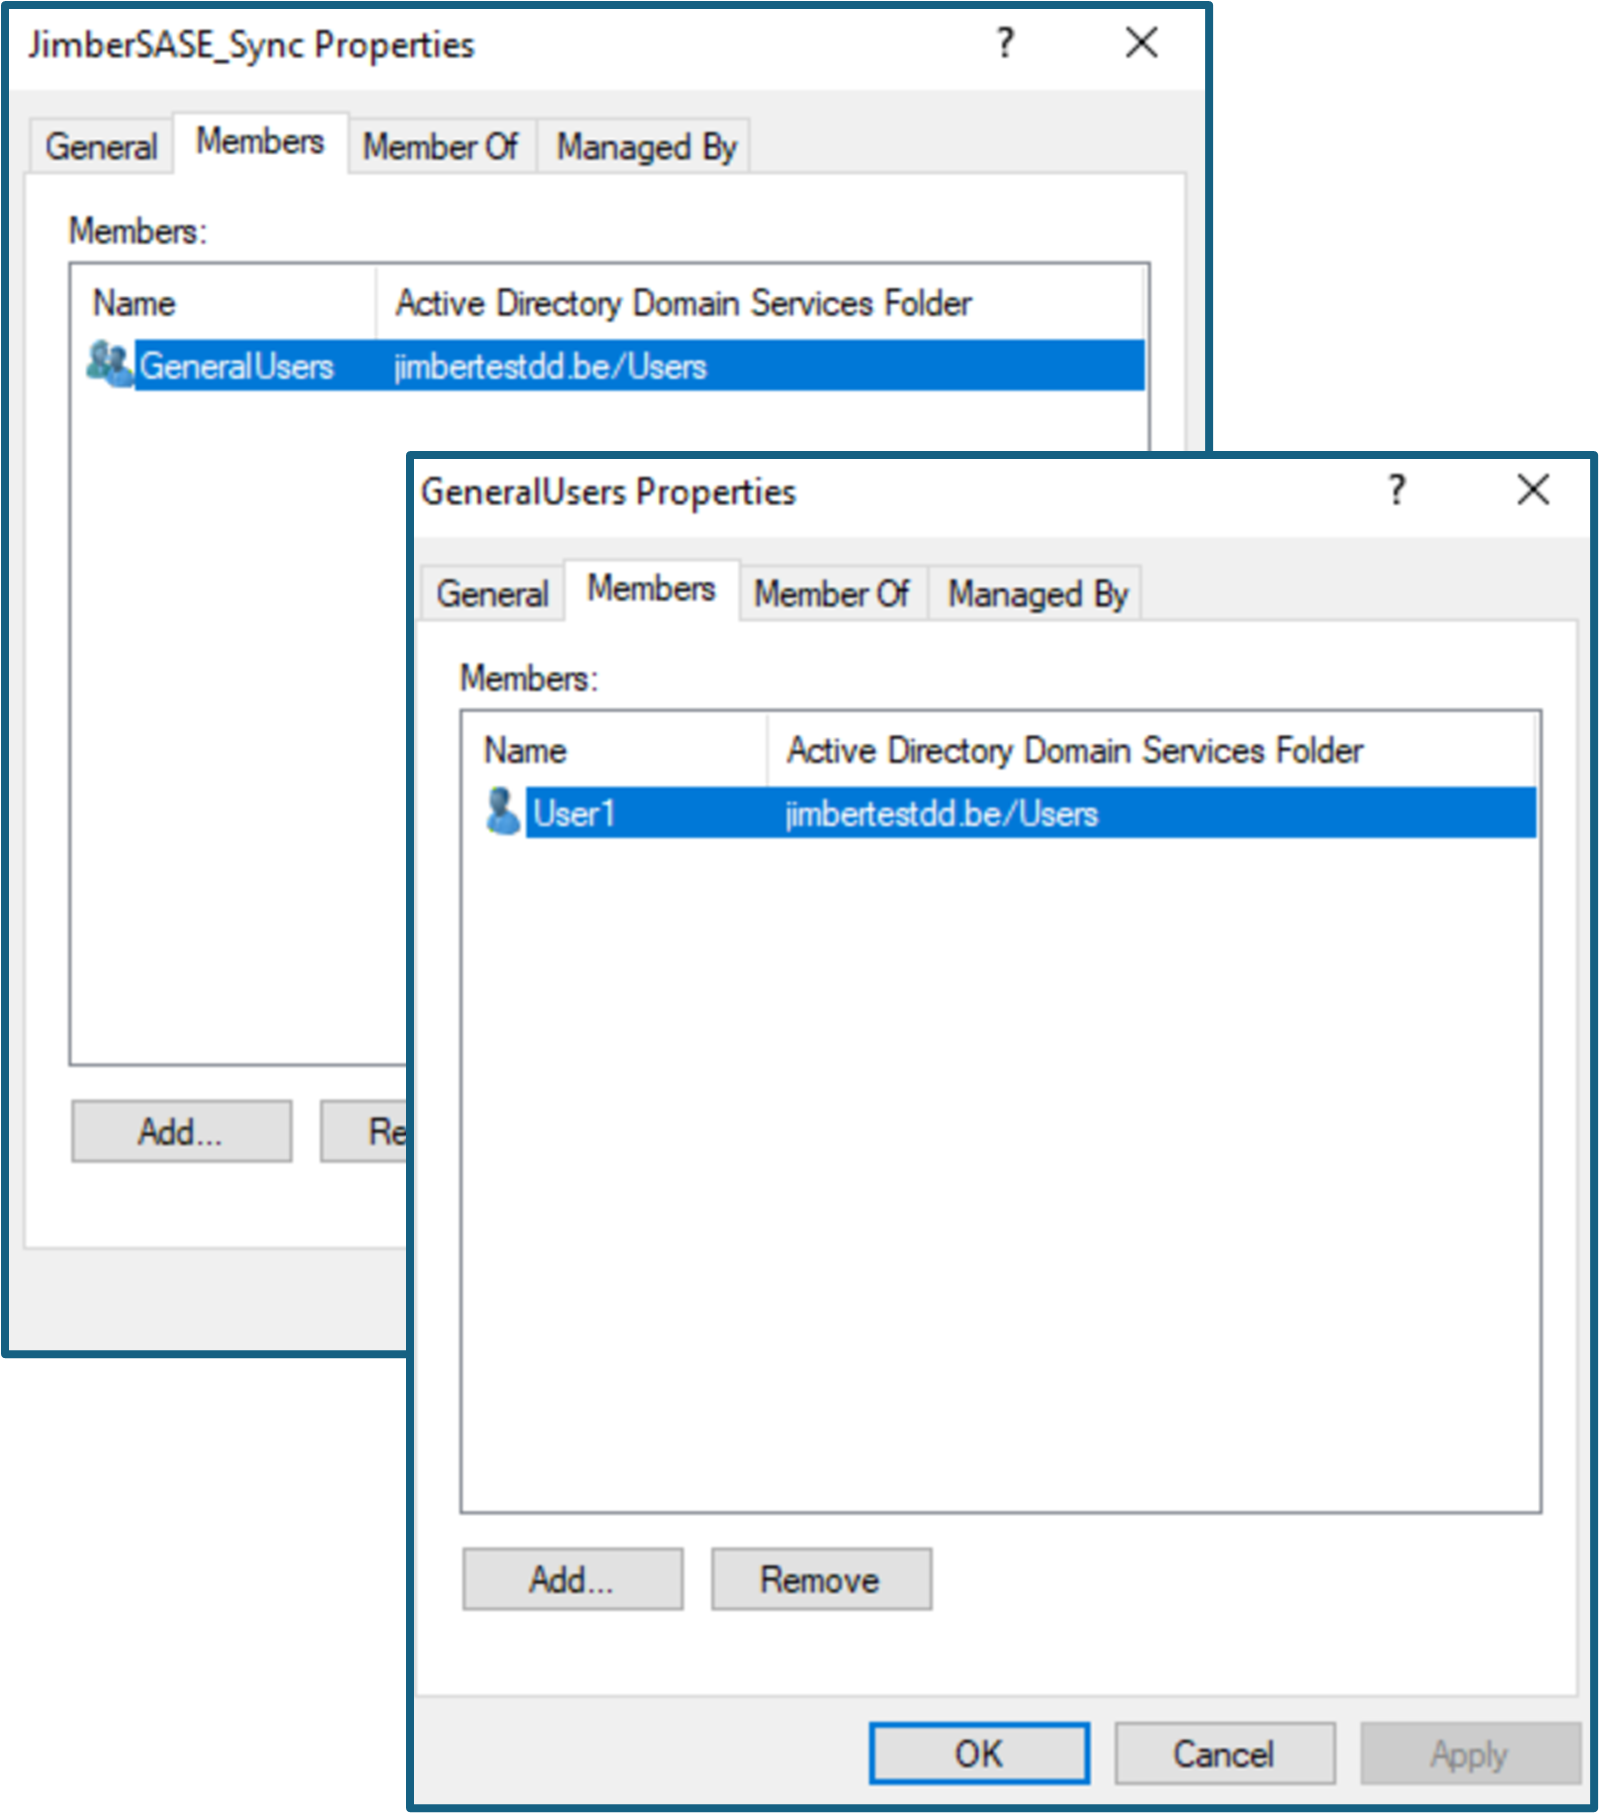
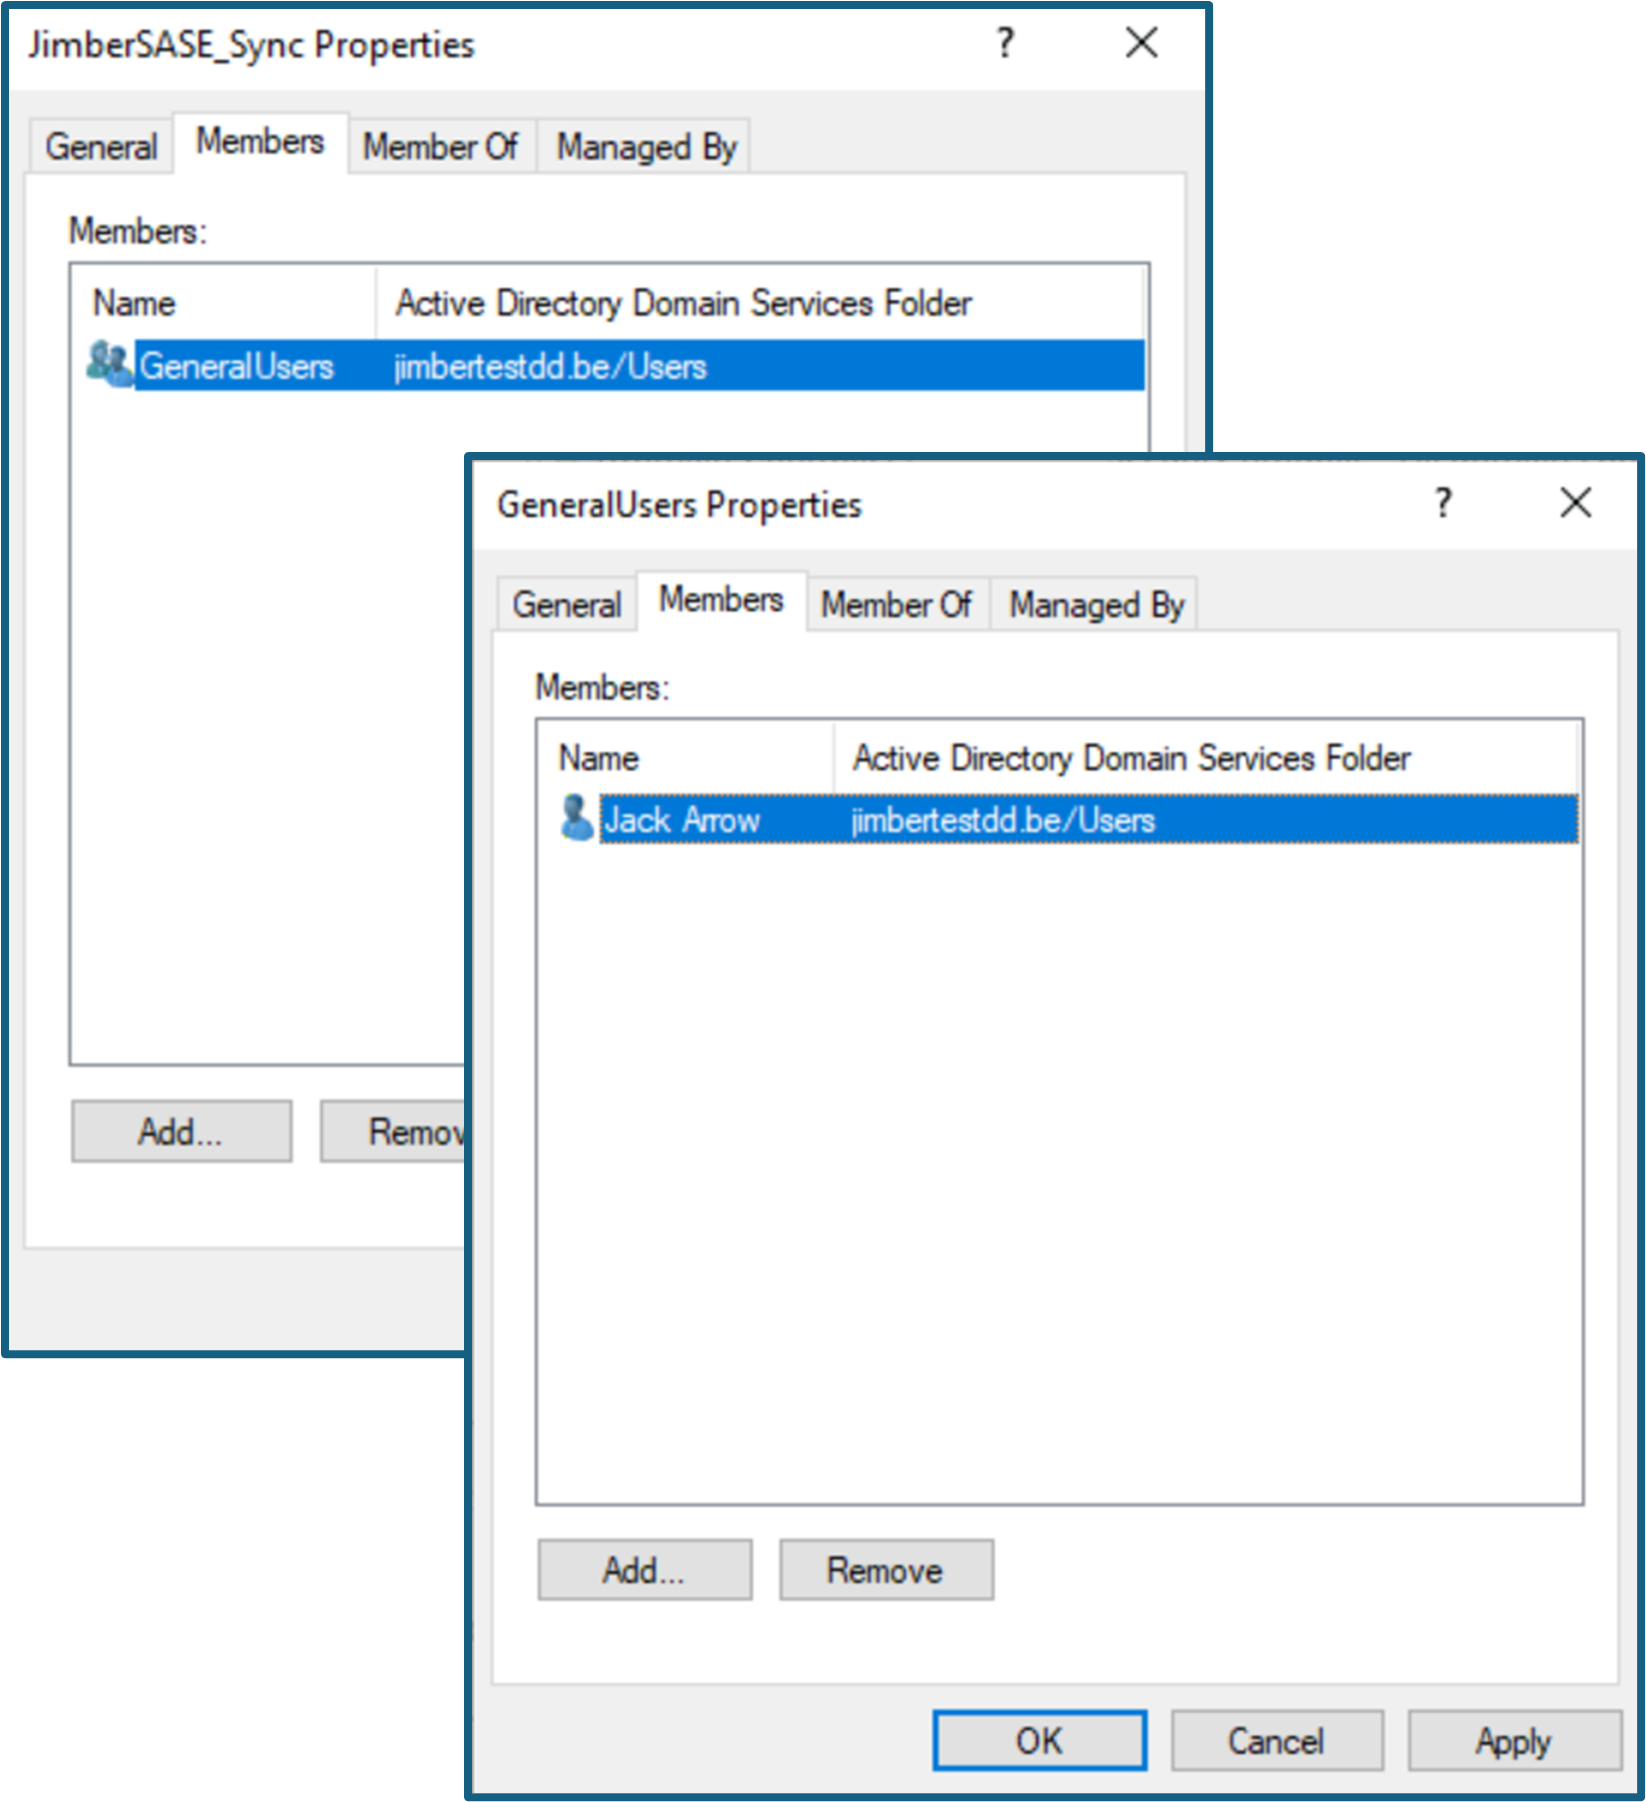
ad_integration and synology, 25th of august 2025

diff --git a/advanced/ad_integration/ad_integration.md b/advanced/ad_integration/ad_integration.md
@@ -2,21 +2,40 @@
 
 In this section you can see how to integrate users and groups from an Active Directory into the SASE platform.
 
+>[!WARNING]
+>To enable Active Directory Integration you need at least one on-premise network controller.
+
+![no_on_premise.png](./screenshots/no_on_premise.png ':size=500')
+
+
+How to setup a network controller you can [here](/./advanced/networkcontrollerssetup/SettingUpServer.md).
+
 
 <!-- UNDER CONSTRUCTION -->
 
 #### In the Active Directory
 
-Create a new user in de AD (e.g. User1) and add the user to the AD group Read-Only Domain Controllers:
+Create a new user in de AD (e.g. **User1**) and add the user to the AD group **Read-Only Domain Controllers**:
 
 ![user_in_rodc.png](./screenshots/user_in_rodc.png ':size=500')
 
-Create a new Global Security groups e.g. JimberSASE_Sync and GeneralUsers:
+Assign the 'Read-Only Domain Controllers' group as the user's primary group.
+- Select the properties of the group.
+
+![properties_user.png](./screenshots/properties_user.png ':size=300')
+
+  - Open the **Member of** tab.
+  - Select the **Read-Only Domain Controllers** group.
+  - Click **Set Primary Group**.
+
+![primary_group.png](./screenshots/primary_group.png ':size=300')
+
+Create new Global Security groups e.g. **JimberSASE_Sync** and **GeneralUsers**:
 
 ![new_groups.png](./screenshots/new_groups.png ':size=500')
 
 
-Add your user to the group GeneralUsers. 
+Add the AD-user to be synchronized (e.g. Jack) to the group GeneralUsers. 
 
 Add the group GeneralUsers to the group JimberSASE_Sync. 
 
@@ -58,7 +77,7 @@ On the domain controller, open PowerShell and run these two commands: -->
 
 - In the **SASE Group field**, enter the Distinguished Name of the group (in this example: CN=JimberSASE_Sync,CN=Users,DC=domainname,DC=be). 
 - In the **Username field**, enter the Distinguished Name of the user you want to sync (in this example: CN=User1,CN=Users,DC=domainname,DC=be).
-- The **Password** is the password of the user. 
+- The **Password** is the password of the user (in this example User1). 
 - Choose the right **Network Controller**.
 
 >[!NOTE]

diff --git a/advanced/synology/synology.md b/advanced/synology/synology.md
@@ -86,6 +86,10 @@ Create in the next window a Synology account.
 
 ![synology_account](./screenshots/synology_account.png ':size=500')
 
+At this point, you can make a Synology Account.
+
+![account_synology](./screenshots/account_synology.png ':size=300')
+
 
 ### Preparation
 
@@ -112,7 +116,14 @@ The user will need the following access & permissions:
 
 ![control_panel](./screenshots/control_panel.png ':size=500') 
 
-Please take note of the chosen **username** and **password**. 
+![new_user](./screenshots/new_user.png ':size=500') 
+
+![join_group](./screenshots/join_group.png ':size=500') 
+
+You can ignore the next windows  until the job is done. 
+
+>[!NOTE]
+>Please take note of the chosen **username** and **password**. 
 
 **Enable SSH** - Only required during the installation.
 
@@ -140,6 +151,8 @@ Download the latest version for your Synology from [downloads](https://signal.ji
 ![Find the correct synology package](./screenshots/choose_download_syn.png ':size=200')
 ![Find the correct synology package](./screenshots/downloads.png ':size=700') 
 
+You can find the model name of your Synology in the Info Center of the control panel. 
+
 ![Find the correct synology package](./screenshots/download_syn_warning.png ':size=500x250') 
 
 ![Find the correct synology package](./screenshots/info_center.png ':size=500') 
@@ -150,13 +163,19 @@ This will download the latest SPK version for your NAS.
 
 ##### Installation
 
-Choose Package Center in the taskbar and then Manual Install in the right upper corner.
+Choose Package Center in the taskbar and then **Manual Install** in the right upper corner.
 
 ![Install the SPK](./screenshots/install-spk.png ':size=500')
 
 Follow the sequence shown in the screenshots below to properly install the SPK.
 
 ![Install the SPK](./screenshots/install-spk2.png ':size=500')
+
+In the next window you can choose `Agree`.
+
+![third_party](./screenshots/third_party.png ':size=500')
+
+
 ![Install the SPK](./screenshots/install-spk3.png ':size=500')
 
 ![Install the SPK](./screenshots/install-spk5.png ':size=500')
